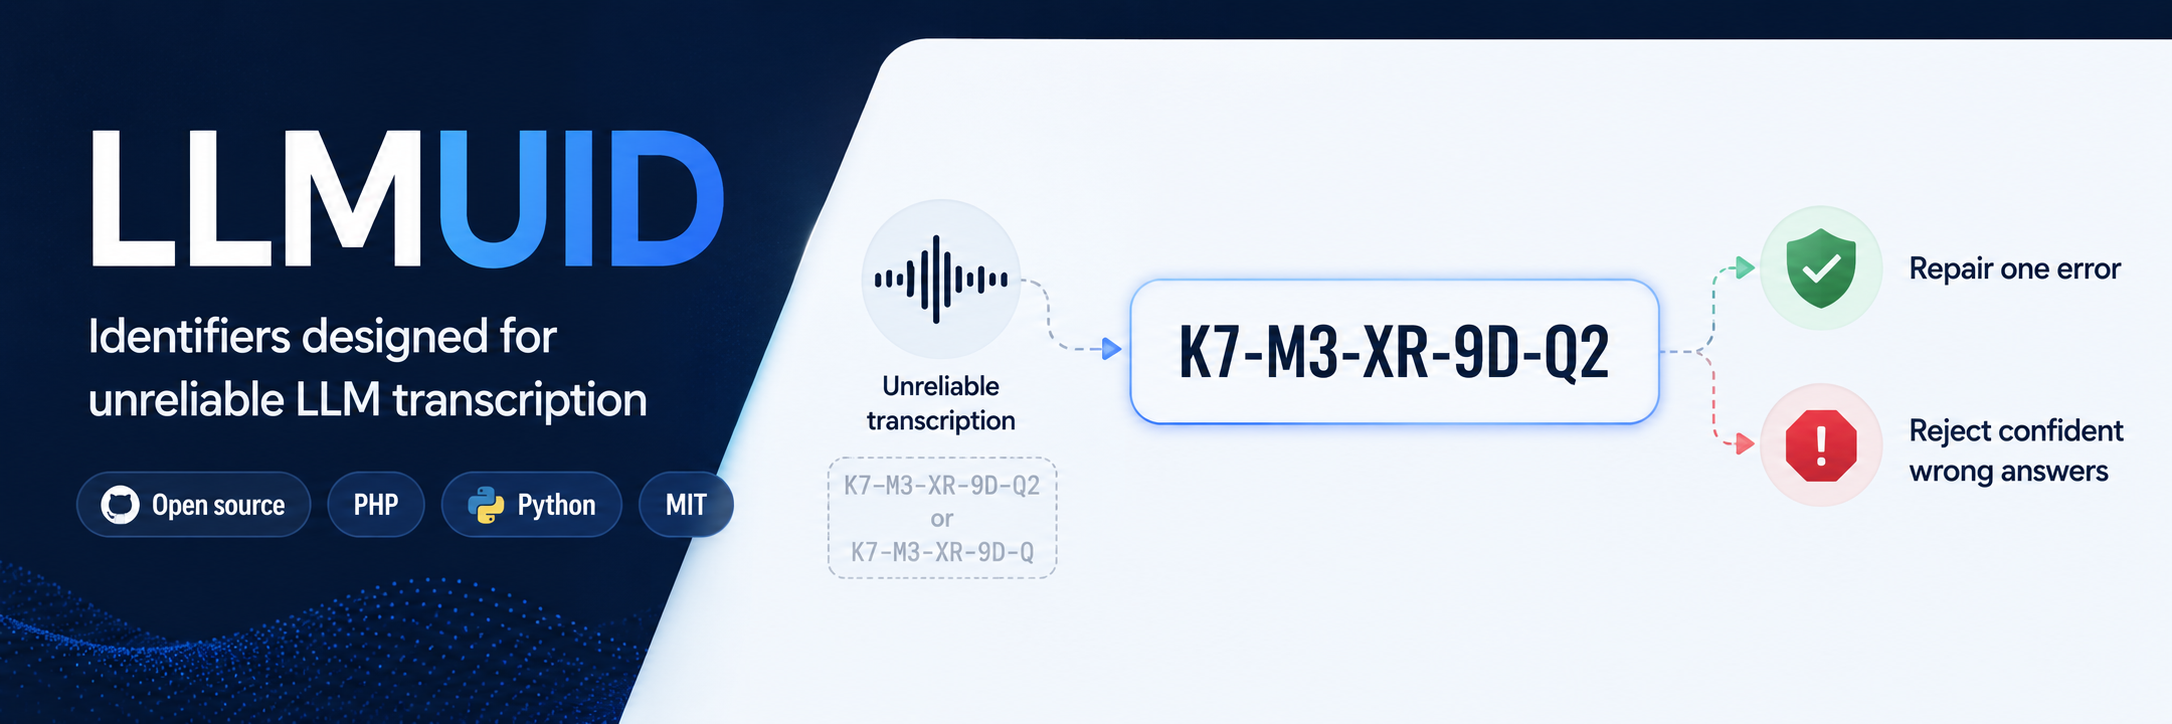
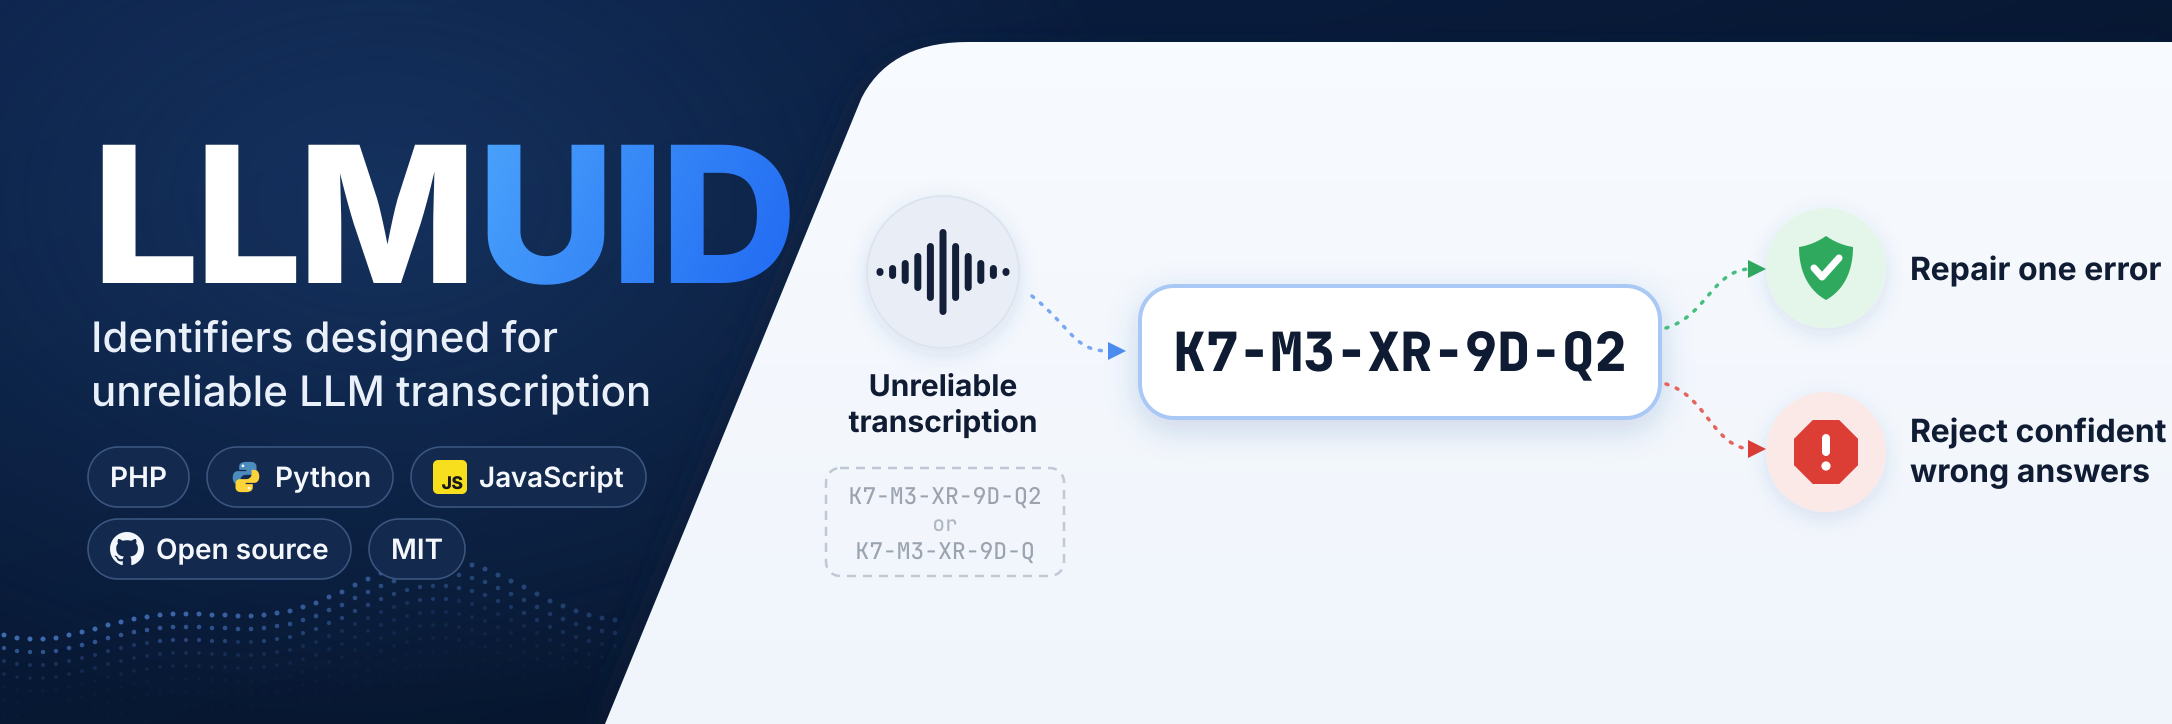
JavaScript implementation

diff --git a/vectors/README.md b/vectors/README.md
@@ -31,10 +31,11 @@ implementer can land somewhere plausible and wrong:
   moves a whole damage class outside the repair radius.
 - **Byte-wise case folding.** `normalize.json` ends with U+017F, LATIN SMALL
   LETTER LONG S. PHP's `strtoupper` is byte-wise and leaves it alone, so it is
-  dropped as not being in the alphabet. Python's `str.upper()` turns it into
-  `S`, which *is* in the alphabet — so a port that calls `.upper()` on a decoded
-  string reads an eleventh symbol and turns a pristine identifier into a length
-  failure. Normalize over bytes, or restrict case folding to ASCII.
+  dropped as not being in the alphabet. Python's `str.upper()` and JavaScript's
+  `toUpperCase()` both turn it into `S`, which *is* in the alphabet — so a port
+  that upper-cases a decoded string reads an eleventh symbol and turns a
+  pristine identifier into a length failure. Normalize over bytes, or restrict
+  case folding to ASCII.
 
 ## How to read them
 
@@ -70,6 +71,6 @@ These files were produced mechanically and then reviewed by hand before being
 committed — that review, not the fact that a program produced them, is what
 gives them their authority.
 
-Both implementation repositories carry a copy of this directory. Nothing checks
-the copies automatically; refreshing them is a documented step whenever these
-files change.
+All three implementation repositories carry a copy of this directory. Nothing
+checks the copies automatically; refreshing them is a documented step whenever
+these files change.

diff --git a/README.md b/README.md
@@ -42,6 +42,7 @@ implementation is wrong.
 |---|---|---|---|
 | PHP | [llmuid-php](https://github.com/philippelyp/llmuid-php) | Packagist `philippelyp/llmuid` | `composer require philippelyp/llmuid` |
 | Python | [llmuid-python](https://github.com/philippelyp/llmuid-python) | PyPI `llmuid` | `pip install llmuid` |
+| JavaScript | [llmuid-javascript](https://github.com/philippelyp/llmuid-javascript) | npm `llmuid` | `npm install llmuid` |
 
 ## What conformance means
 
@@ -55,10 +56,10 @@ Writing a new implementation means reading [llmuid.md](llmuid.md) and passing
 [vectors/](vectors/) — not reading an existing implementation's source. The
 vectors are the reference; the code is one rendering of it.
 
-Both implementations carry a copy of [vectors/](vectors/) inside the package
-and grade themselves against all 134 cases at runtime, through `self_test()` —
-the answer key ships with every install, and conformance is one method call
-away. The canonical set is this one; the copies follow it.
+All three implementations carry a copy of [vectors/](vectors/) inside the
+package and grade themselves against all 134 cases at runtime, through
+`self_test()` — the answer key ships with every install, and conformance is one
+method call away. The canonical set is this one; the copies follow it.
 
 ## Not a security mechanism
 

diff --git a/llmuid.md b/llmuid.md
@@ -7,13 +7,14 @@ By Philippe Paquet
 
 This document is the design specification: it describes *what* the scheme
 guarantees and *why*, independent of any language or library. The
-implementations live in their own repositories — [llmuid-php][php] and
-[llmuid-python][python] — and are graded against the conformance vectors in
-[`vectors/`](vectors/), which live here beside the specification because they
-belong to no single language.
+implementations live in their own repositories — [llmuid-php][php],
+[llmuid-python][python] and [llmuid-javascript][javascript] — and are graded
+against the conformance vectors in [`vectors/`](vectors/), which live here
+beside the specification because they belong to no single language.
 
 [php]: https://github.com/philippelyp/llmuid-php
 [python]: https://github.com/philippelyp/llmuid-python
+[javascript]: https://github.com/philippelyp/llmuid-javascript
 
 ## Purpose
 
